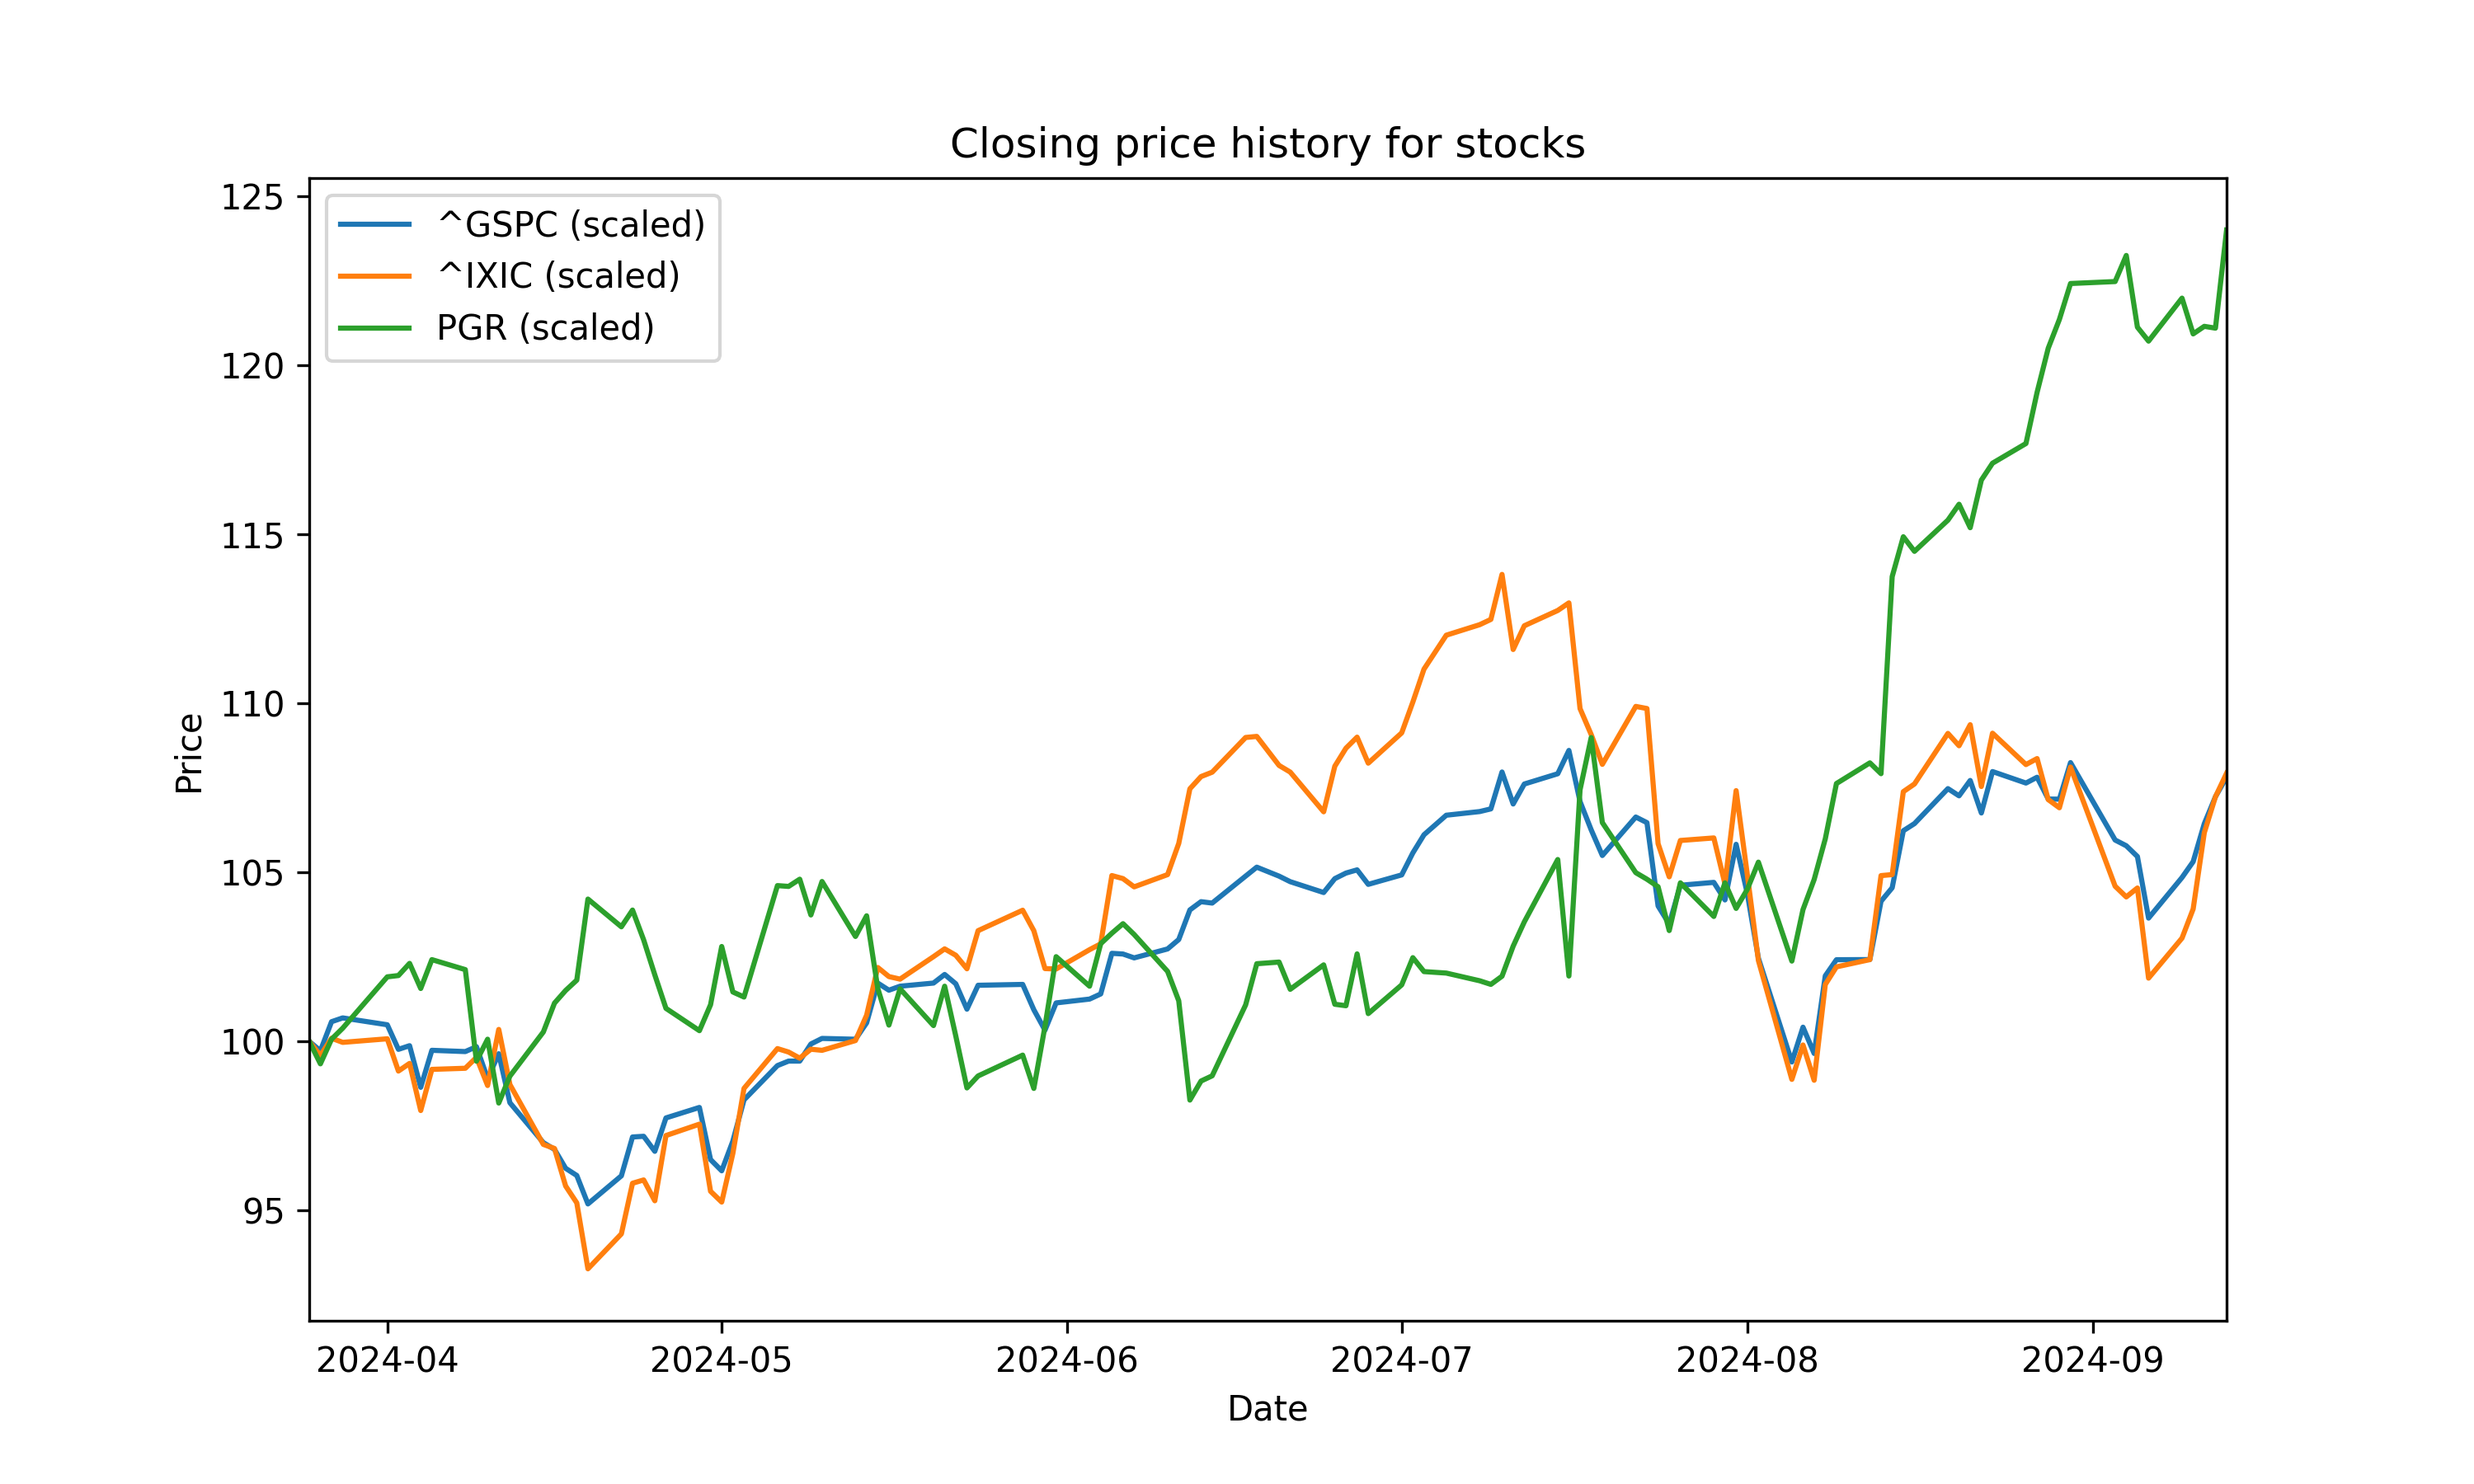
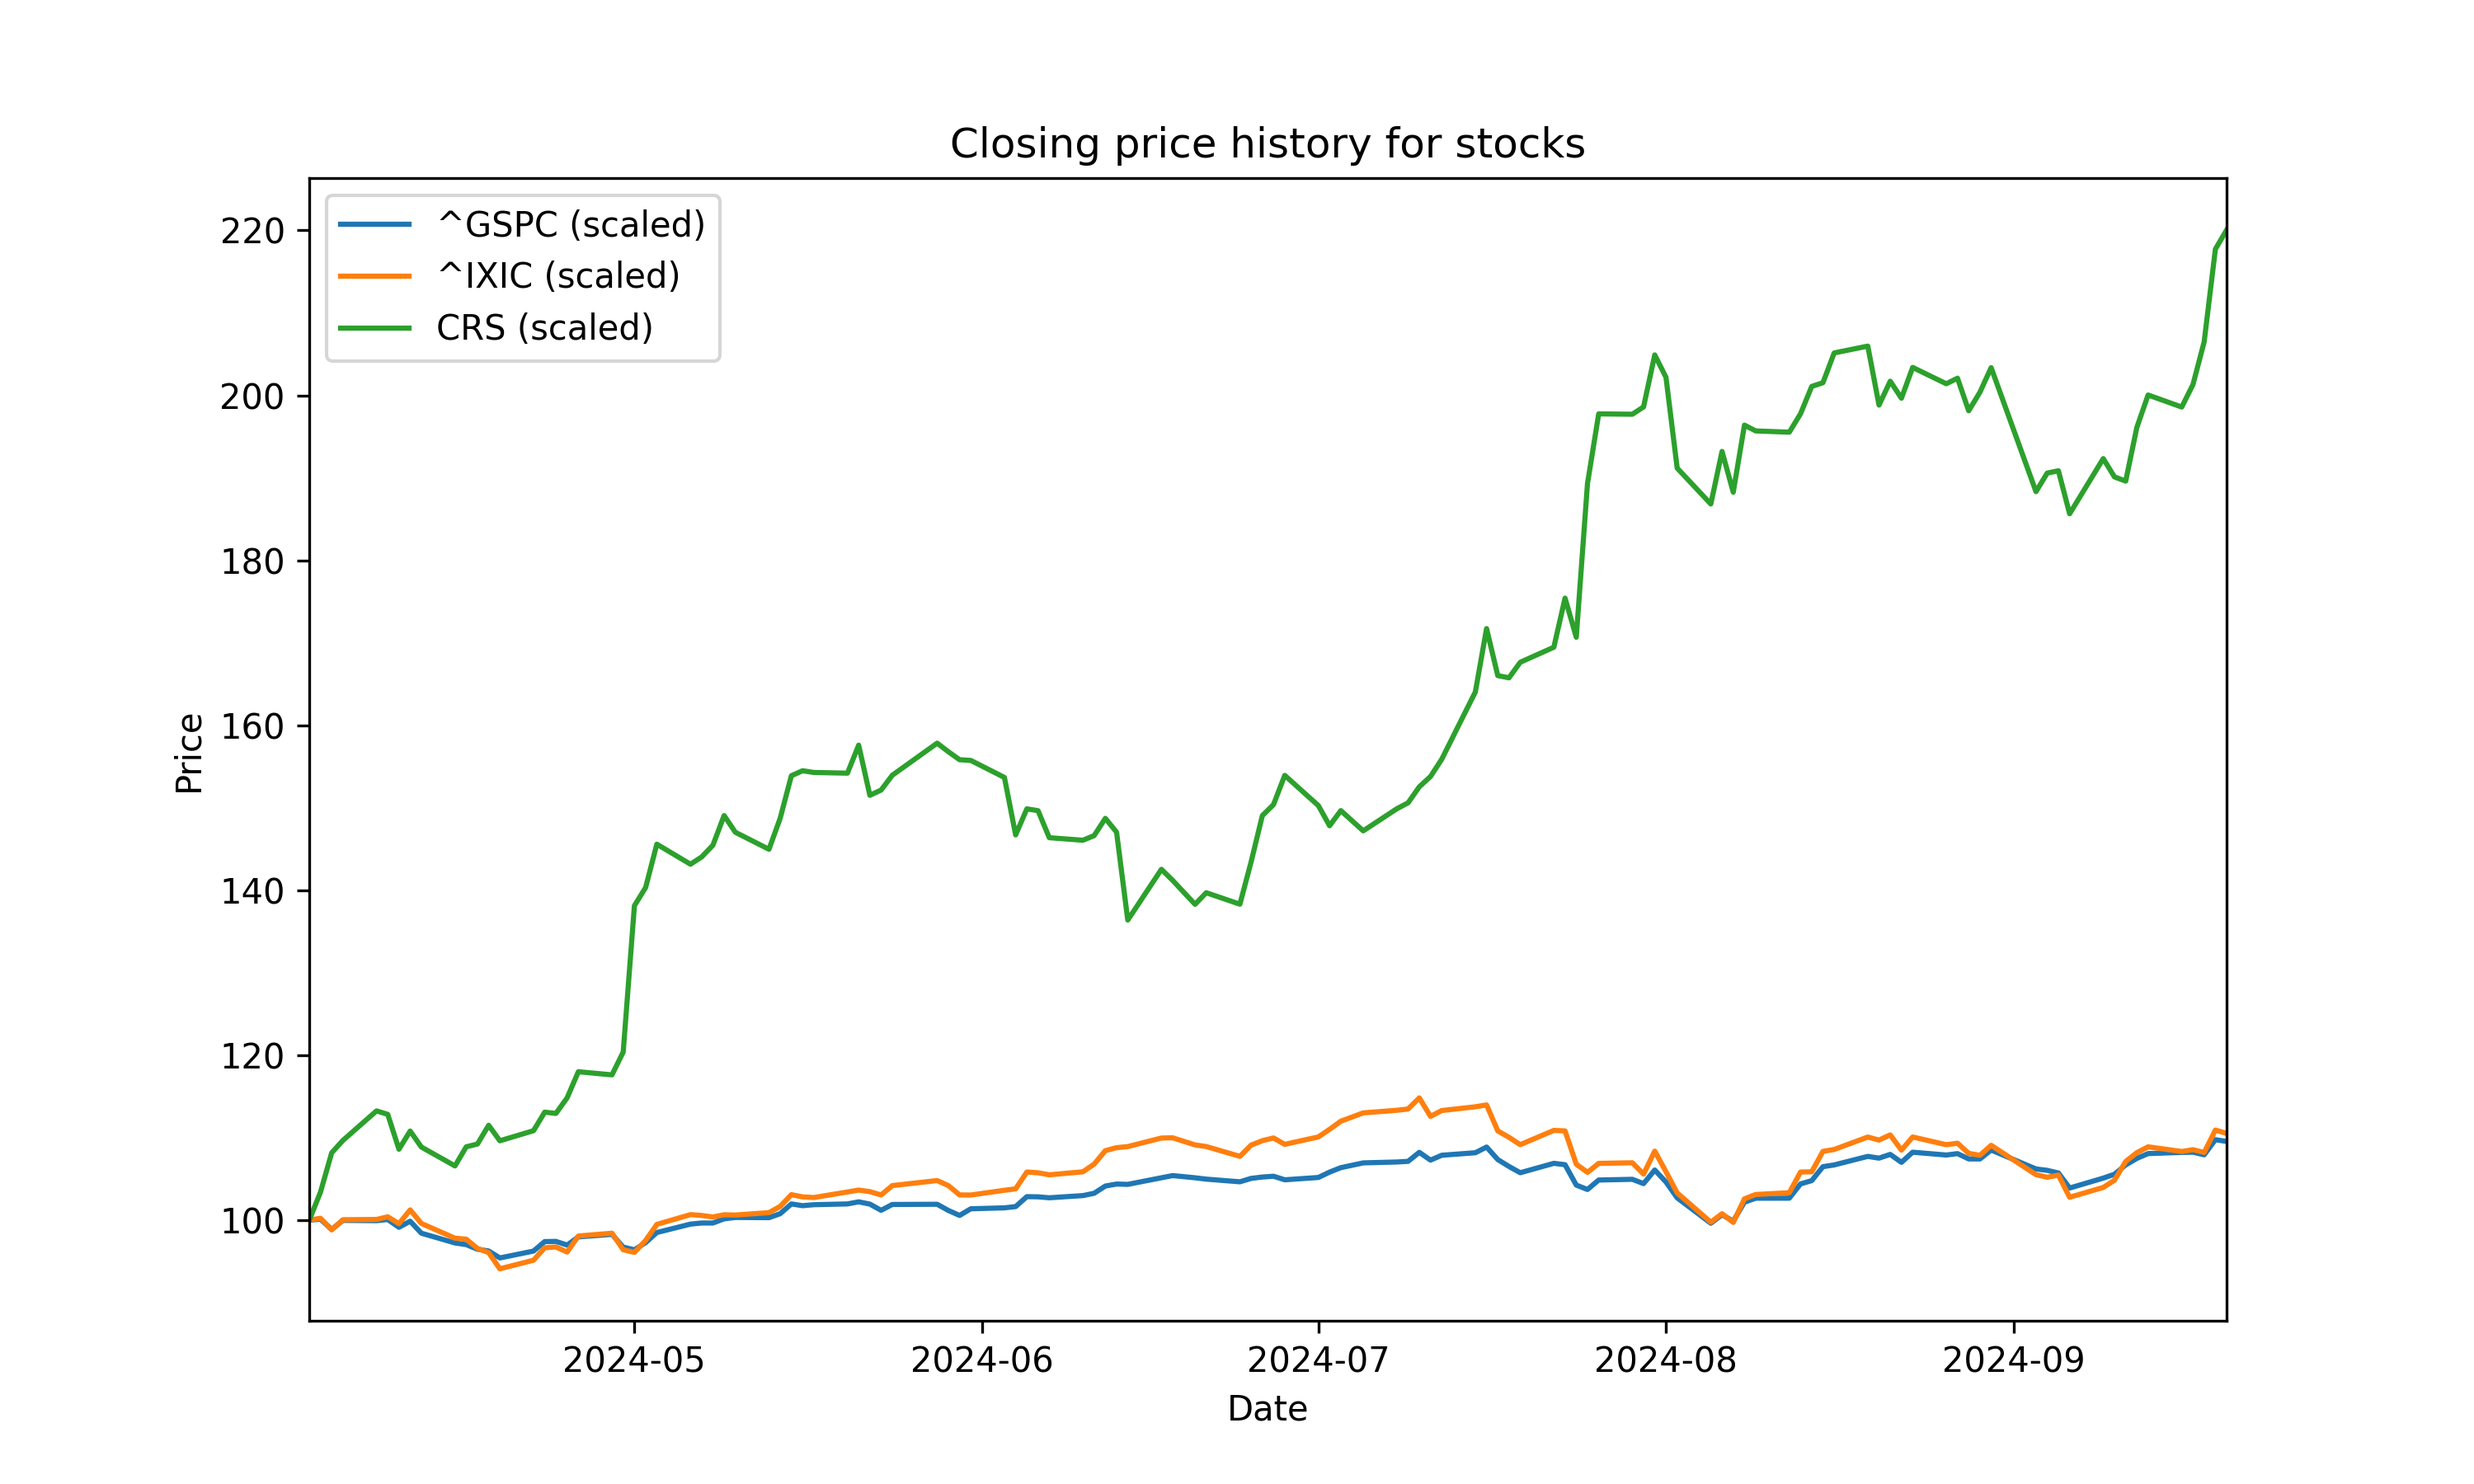
In progress

diff --git a/Program/test_stock.py b/Program/test_stock.py
@@ -13,7 +13,7 @@ start = dt.datetime.now()
 current_date = start.strftime("%Y-%m-%d")
 
 # Choose the stocks
-stocks = ["ACIW", "EGO", "PGR"]
+stocks = ["NRG", "CRS"]
 
 # Iterate over stocks
 for stock in stocks:
@@ -23,8 +23,8 @@ for stock in stocks:
     plot_stocks(["^GSPC", "^IXIC", stock], current_date, save=True)
 
 # Get the stop loss and target price of a stock
-stock = "EGO"
-stoploss, stoploss_pct, target, target_pct = stoploss_target(stock, 16.35, "2024-09-11")
+stock = "ACIW"
+stoploss, stoploss_pct, target, target_pct = stoploss_target(stock, 50.33, current_date)
 print(f"Stoploss: {stoploss}, {stoploss_pct} (%).")
 print(f"Target price: {target}, {target_pct} (%).")
 
